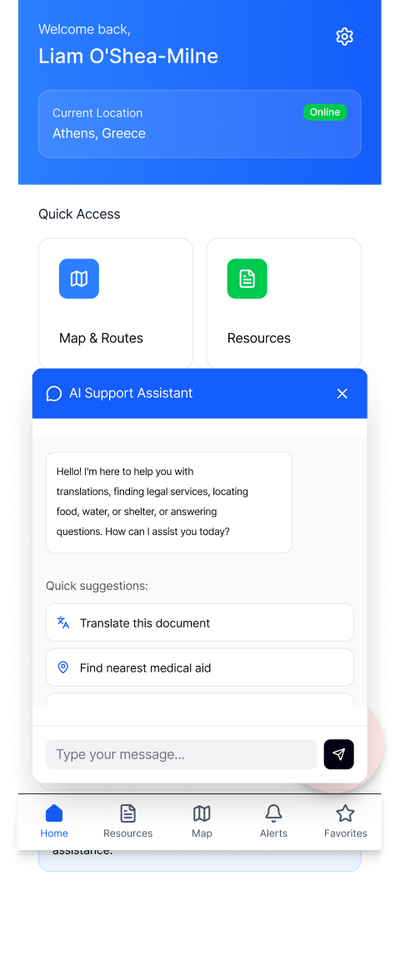
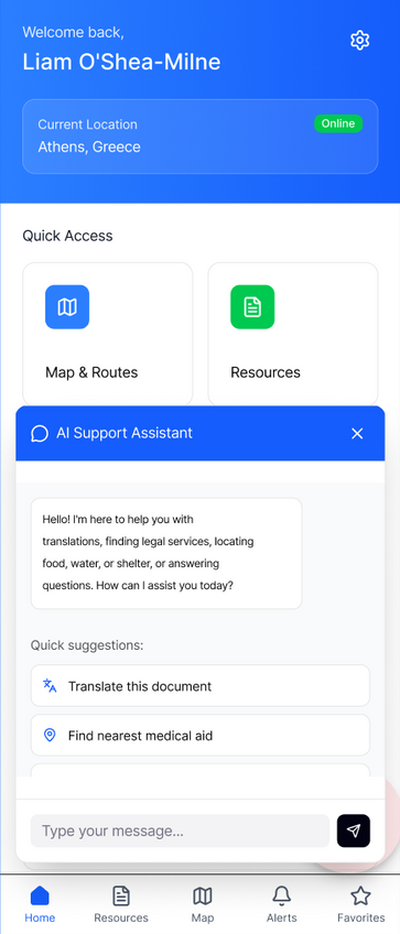
Migrant Compass: clean up the long screen exports inside the phone mockups
Eight exports had transparent rims and rounded corners baked in, and four
stacked the screen above its own bottom nav plus leftover scrolled content.
Each is now cropped to the screen itself: rims removed, corners filled with
the header color, and Home, Resources, Map and the chat screen end at their
nav bar.

Claude-Session: https://claude.ai/code/session_01XrSCNk8CdZFL88DQkgrBgR

Changed region(s): [[0.0, 0.0, 1.0, 0.652], [0.0, 0.7452, 1.0, 0.9936], [0.09, 0.6831, 0.54, 0.7452]]

diff --git a/images/MANIFEST.md b/images/MANIFEST.md
@@ -165,14 +165,14 @@ Until a file exists, the page shows a blank placeholder box at the correct size.
 | `images/migrant-compass/12-migrant-compass-mobile-app-wireframe.png` | Migrant-Compass-Mobile-App-Wireframe.png | 435×853 |
 | `images/migrant-compass/13-migrant-compass-mobile-app-wireframe.png` | Migrant-Compass-Mobile-App-Wireframe.png | 435×853 |
 | `images/migrant-compass/14-migrant-compass-mobile-ap.p-wireframe.png` | Migrant-Compass-Mobile-Ap.p-Wireframe.png | 436×853 |
-| `images/migrant-compass/15-migrant-compass-mobile-app-wireframe.png` | Migrant-Compass-Mobile-App-Wireframe.png | 460×1151 |
-| `images/migrant-compass/16-migra2nt-compass-mobile-app-wireframe.png` | Migra2nt-Compass-Mobile-App-Wireframe.png | 480×1151 |
-| `images/migrant-compass/17-migrant-compass2-mobile-app-wireframe.png` | Migrant-Compass2-Mobile-App-Wireframe.png | 460×1151 |
-| `images/migrant-compass/18-migrant-compass-mobil2e-app-wireframe.png` | Migrant-Compass-Mobil2e-App-Wireframe.png | 435×1697 |
-| `images/migrant-compass/19-w.png` | w.png | 460×1340 |
-| `images/migrant-compass/20-3.png` | 3.png | 460×992 |
-| `images/migrant-compass/21-4.png` | 4.png | 436×960 |
-| `images/migrant-compass/22-5.png` | 5.png | 436×1185 |
+| `images/migrant-compass/15-migrant-compass-mobile-app-wireframe.png` | Migrant-Compass-Mobile-App-Wireframe.png | 400×784 |
+| `images/migrant-compass/16-migra2nt-compass-mobile-app-wireframe.png` | Migra2nt-Compass-Mobile-App-Wireframe.png | 400×934 |
+| `images/migrant-compass/17-migrant-compass2-mobile-app-wireframe.png` | Migrant-Compass2-Mobile-App-Wireframe.png | 400×1058 |
+| `images/migrant-compass/18-migrant-compass-mobil2e-app-wireframe.png` | Migrant-Compass-Mobil2e-App-Wireframe.png | 400×1561 |
+| `images/migrant-compass/19-w.png` | w.png | 400×784 |
+| `images/migrant-compass/20-3.png` | 3.png | 400×784 |
+| `images/migrant-compass/21-4.png` | 4.png | 400×881 |
+| `images/migrant-compass/22-5.png` | 5.png | 400×1086 |
 
 ## hopoffer.html — HopOffer
 
